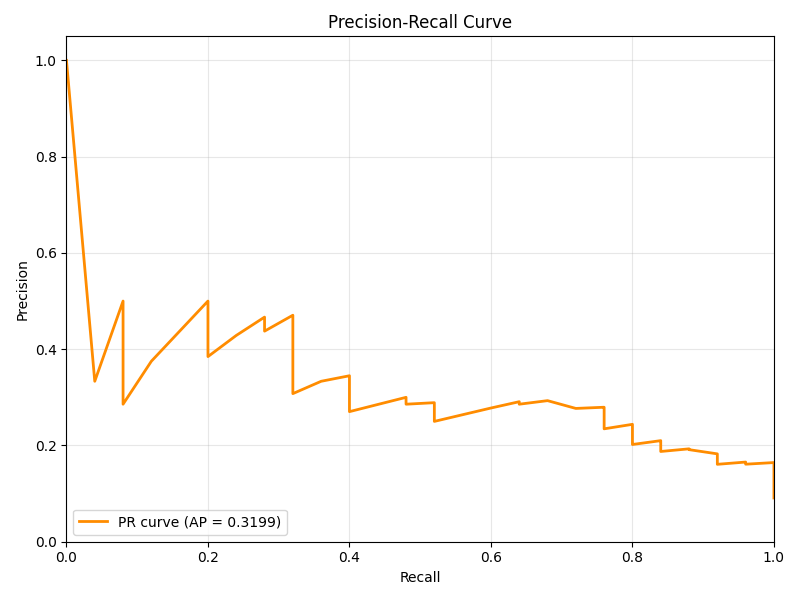
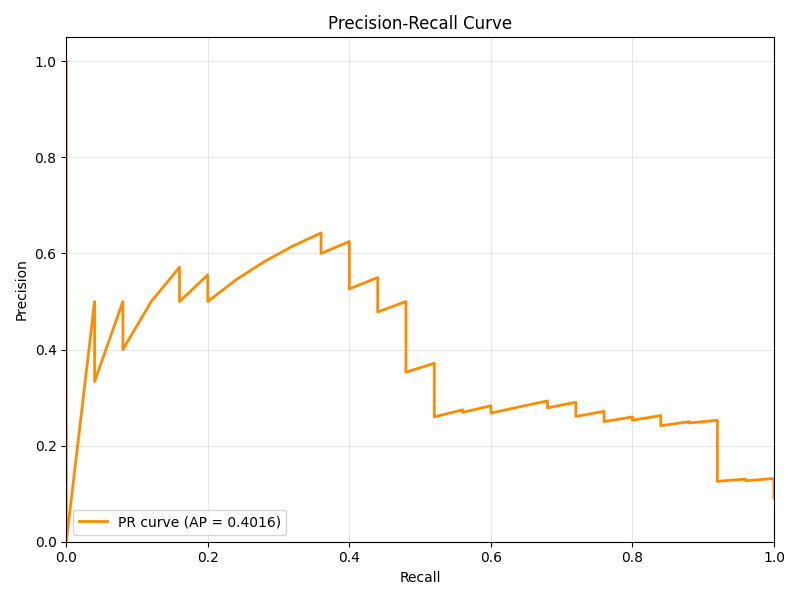
chore: refresh gitignore and stabilize local ML setup
Switch backend and streaming modules to root-relative imports, fall back to environment settings when the local Kafka config is absent, and re-enable the ML prediction module with a portable temp-directory checkpoint. Drop the removed XGBoost use_label_encoder argument, document the MIMIC demo database build, and track the builder plus regenerated evaluation artifacts.

Expand .gitignore to cover Python caches, ML binaries and local data, credentials, and frontend build output.

diff --git a/ml/data/build_mimic_db.py b/ml/data/build_mimic_db.py
@@ -1,0 +1,107 @@
+"""Load MIMIC-IV demo CSV files into a SQLite database for Sepsense."""
+
+import argparse
+import sqlite3
+from pathlib import Path
+
+import pandas as pd
+
+CHUNKSIZE = 100_000
+
+INDEXES = {
+    "admissions": ["hadm_id", "subject_id"],
+    "patients": ["subject_id"],
+    "diagnoses_icd": ["hadm_id", "icd_code"],
+    "chartevents": ["hadm_id", "itemid", "charttime"],
+    "labevents": ["hadm_id", "itemid", "charttime"],
+    "procedureevents": ["hadm_id", "itemid", "starttime"],
+    "icustays": ["hadm_id", "stay_id"],
+    "d_items": ["itemid"],
+    "d_labitems": ["itemid"],
+}
+
+
+def normalize_ids(df: pd.DataFrame) -> pd.DataFrame:
+    """Store identifier columns as integers so SQL joins work reliably."""
+    for column in df.columns:
+        name = column.lower()
+        if not (name.endswith("id") or name.endswith("_id")):
+            continue
+        numeric = pd.to_numeric(df[column], errors="coerce")
+        if numeric.isna().all():
+            continue
+        values = numeric.dropna()
+        if ((values % 1) == 0).all():
+            df[column] = numeric.astype("Int64")
+    return df
+
+
+def load_csv(csv_path: Path, table: str, connection: sqlite3.Connection) -> int:
+    """Stream a CSV into SQLite and return the number of rows loaded."""
+    rows = 0
+    reader = pd.read_csv(csv_path, chunksize=CHUNKSIZE, low_memory=False)
+    for chunk in reader:
+        chunk = normalize_ids(chunk)
+        chunk.to_sql(
+            table,
+            connection,
+            if_exists="replace" if rows == 0 else "append",
+            index=False,
+        )
+        rows += len(chunk)
+    return rows
+
+
+def build(csv_dir: Path, db_path: Path) -> None:
+    """Load every CSV in hosp/ and icu/ into the SQLite database."""
+    if not csv_dir.is_dir():
+        raise FileNotFoundError(f"CSV directory not found: {csv_dir}")
+    db_path.parent.mkdir(parents=True, exist_ok=True)
+
+    csv_files = sorted([*csv_dir.glob("hosp/*.csv"), *csv_dir.glob("icu/*.csv")])
+    if not csv_files:
+        raise FileNotFoundError(f"No CSV files found under {csv_dir}")
+
+    if db_path.exists():
+        db_path.unlink()
+
+    with sqlite3.connect(db_path) as connection:
+        for csv_path in csv_files:
+            table = csv_path.stem
+            rows = load_csv(csv_path, table, connection)
+            print(f"{table:24s} {rows:>8d} rows")
+
+        for table, columns in INDEXES.items():
+            exists = connection.execute(
+                "SELECT 1 FROM sqlite_master WHERE type = 'table' AND name = ?", (table,)
+            ).fetchone()
+            if not exists:
+                continue
+            for column in columns:
+                index = f"idx_{table}_{column}"
+                connection.execute(f"CREATE INDEX {index} ON {table} ({column})")
+        connection.commit()
+
+    print(f"\nDatabase written to {db_path}")
+
+
+def main() -> None:
+    parser = argparse.ArgumentParser(description="Build the MIMIC-IV demo SQLite database")
+    parser.add_argument(
+        "--csv-dir",
+        type=Path,
+        default=Path("mimic-iv-clinical-database-demo-2.2"),
+        help="Directory containing hosp/ and icu/ CSV files",
+    )
+    parser.add_argument(
+        "--db-path",
+        type=Path,
+        default=Path("_data/mimic_demo.db"),
+        help="Destination SQLite database",
+    )
+    args = parser.parse_args()
+    build(args.csv_dir, args.db_path)
+
+
+if __name__ == "__main__":
+    main()

diff --git a/ml/streaming/ml_prediction_module.py b/ml/streaming/ml_prediction_module.py
@@ -10,16 +10,18 @@ import joblib
 import logging
 import pandas as pd
 import sqlite3
+import tempfile
 from collections import deque
 from datetime import datetime
+from pathlib import Path
 from typing import Dict, List, Optional
 from confluent_kafka import Producer
 
-from Sepsense.ml.features.sofa_calculator import SOFACalculator
-from Sepsense.ml.features.comorbidity_service import ComorbidityService
-from Sepsense.ml.streaming.patient_state import PatientStateManager
-from Sepsense.ml.streaming.throttler import PredictionThrottler
-from Sepsense.backend.api.models import (
+from ml.features.sofa_calculator import SOFACalculator
+from ml.features.comorbidity_service import ComorbidityService
+from ml.streaming.patient_state import PatientStateManager
+from ml.streaming.throttler import PredictionThrottler
+from backend.api.models import (
     AdmissionEvent,
     LabEvent,
     CharteventEvent,
@@ -85,7 +87,9 @@ class MLPredictionModule:
             raise
 
         # Initialize services
-        self.state_manager = PatientStateManager(checkpoint_path="/tmp/patient_state.pkl")
+        self.state_manager = PatientStateManager(
+            checkpoint_path=str(Path(tempfile.gettempdir()) / "patient_state.pkl")
+        )
         self.comorbidity_service = ComorbidityService(db_path)
         self.sofa_calculator = SOFACalculator()
         self.throttler = PredictionThrottler(tick_interval=tick_interval)

diff --git a/backend/api/unified_consumer.py b/backend/api/unified_consumer.py
@@ -13,8 +13,8 @@ from typing import List, Set, Dict
 from confluent_kafka import Consumer, KafkaError, KafkaException
 from .config import Settings
 from .models import AdmissionEvent, LabEvent, ICUAdmissionEvent, CharteventEvent, SepsisAlert, ClinicalRecommendation
-from Sepsense.ml.streaming.ml_prediction_module import MLPredictionModule
-from Sepsense.ml.streaming.rag_module import RAGModule
+from ml.streaming.ml_prediction_module import MLPredictionModule
+from ml.streaming.rag_module import RAGModule
 
 logger = logging.getLogger(__name__)
 
@@ -72,9 +72,7 @@ class UnifiedConsumer:
         self.recommendation_sse_queues: Set[asyncio.Queue] = set()
 
         # Initialize ML prediction module (optional - won't break if it fails)
-        # TEMPORARILY DISABLED FOR TESTING
         self.ml_module = None
-        logger.info("🔧 ML module DISABLED for testing")
         try:
             kafka_config = {
                 'bootstrap.servers': settings.kafka_bootstrap_servers,

diff --git a/backend/api/config.py b/backend/api/config.py
@@ -6,10 +6,13 @@ or configuration files.
 """
 
 import json
+import logging
 import os
 from pathlib import Path
 from typing import List
 from pydantic_settings import BaseSettings
+
+logger = logging.getLogger(__name__)
 
 
 class Settings(BaseSettings):
@@ -120,8 +123,12 @@ def get_settings() -> Settings:
         # Production: load from environment variables
         return Settings()
     else:
-        # Development: load from _data/kafka_config.json
-        return Settings.load_from_kafka_config()
+        # Development: load from _data/kafka_config.json when available
+        try:
+            return Settings.load_from_kafka_config()
+        except FileNotFoundError as exc:
+            logger.warning("%s Falling back to environment settings.", exc)
+            return Settings()
 
 
 settings = get_settings()

diff --git a/ml/streaming/rag_module.py b/ml/streaming/rag_module.py
@@ -15,9 +15,9 @@ from typing import Dict, List, Optional
 from confluent_kafka import Producer
 from google import genai
 
-from Sepsense.rag.embedding_service import GeminiEmbeddingService
-from Sepsense.rag.mongodb_store import MongoDBVectorStore
-from Sepsense.backend.api.models import (
+from rag.embedding_service import GeminiEmbeddingService
+from rag.mongodb_store import MongoDBVectorStore
+from backend.api.models import (
     ClinicalRecommendation,
     SepsisAlertReference,
     RecommendationAction,

diff --git a/ml/training/train_local.py b/ml/training/train_local.py
@@ -211,7 +211,6 @@ class SepsisModelTrainer:
         xgb_model = xgb.XGBClassifier(
             objective="binary:logistic",
             eval_metric="auc",
-            use_label_encoder=False,
             random_state=42,
         )
 

diff --git a/ml/README.md b/ml/README.md
@@ -37,6 +37,12 @@ cd Sepsense
 uv sync
 ```
 
+#### 1b. Build the local database (if `_data/mimic_demo.db` is missing)
+Download the MIMIC-IV demo CSVs from Kaggle into the project root, then:
+```bash
+python -m ml.data.build_mimic_db
+```
+
 #### 2. Train Model
 ```bash
 # Train on all admissions (275 from demo DB)
